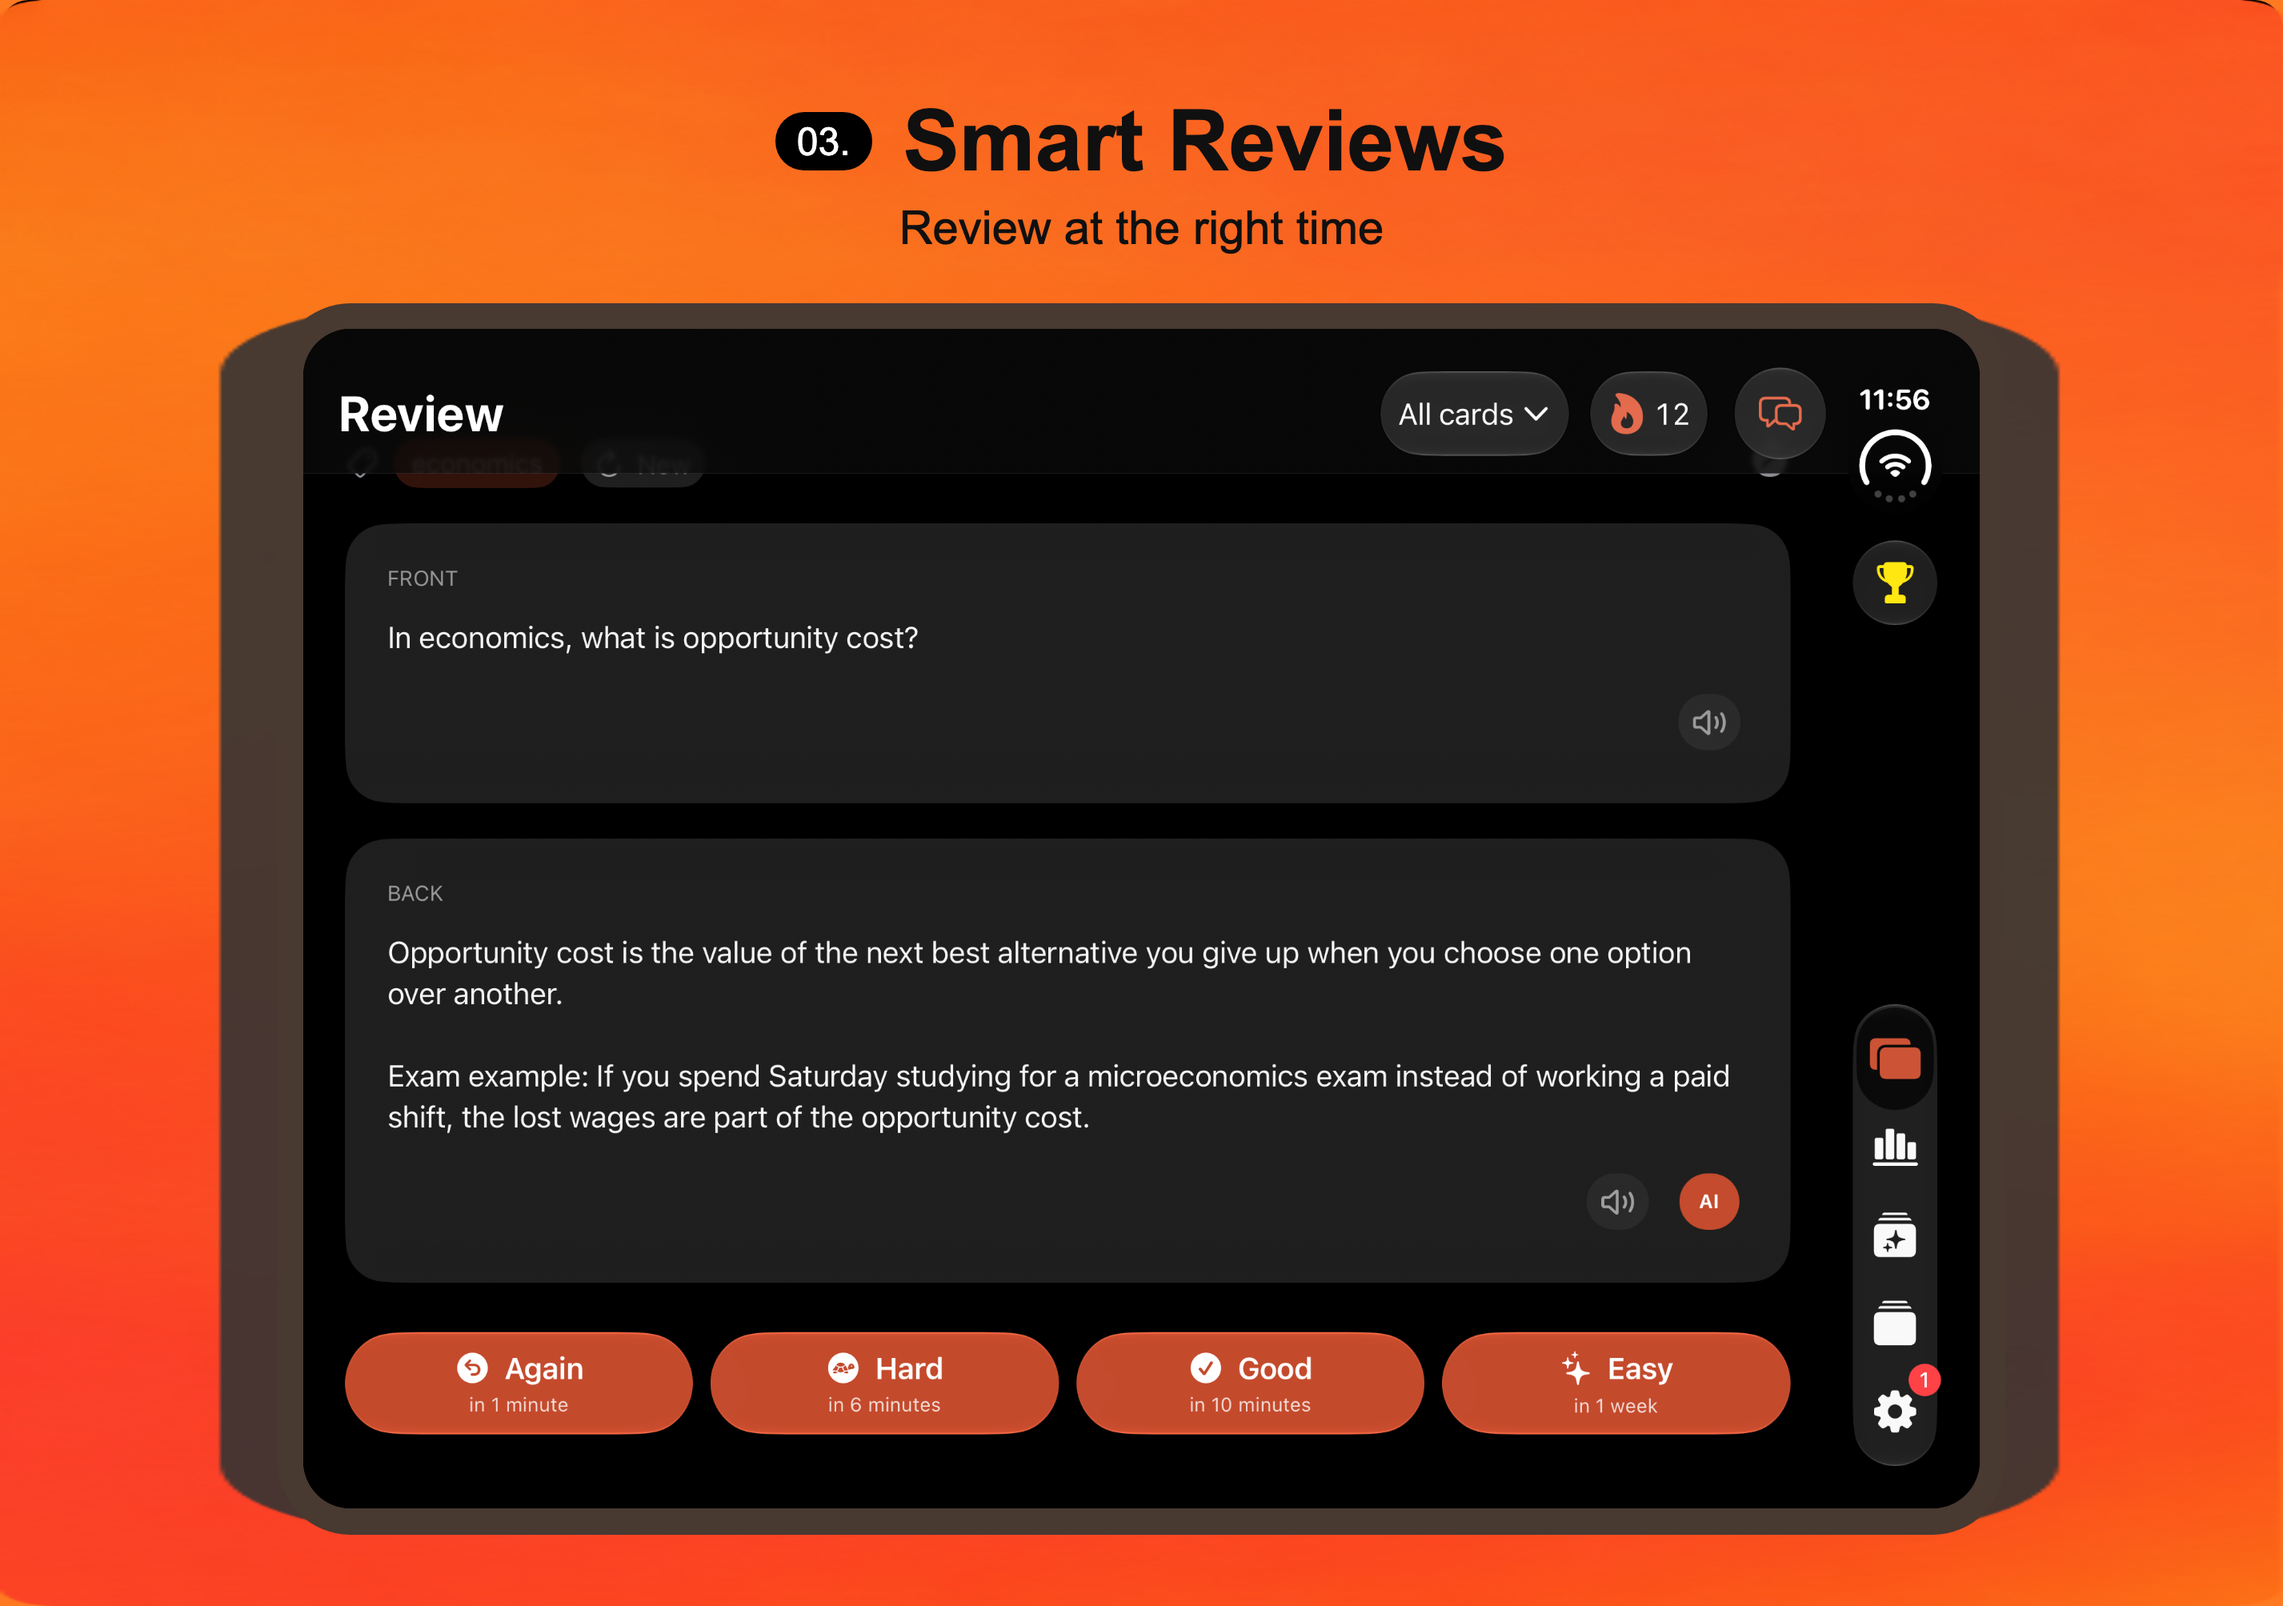
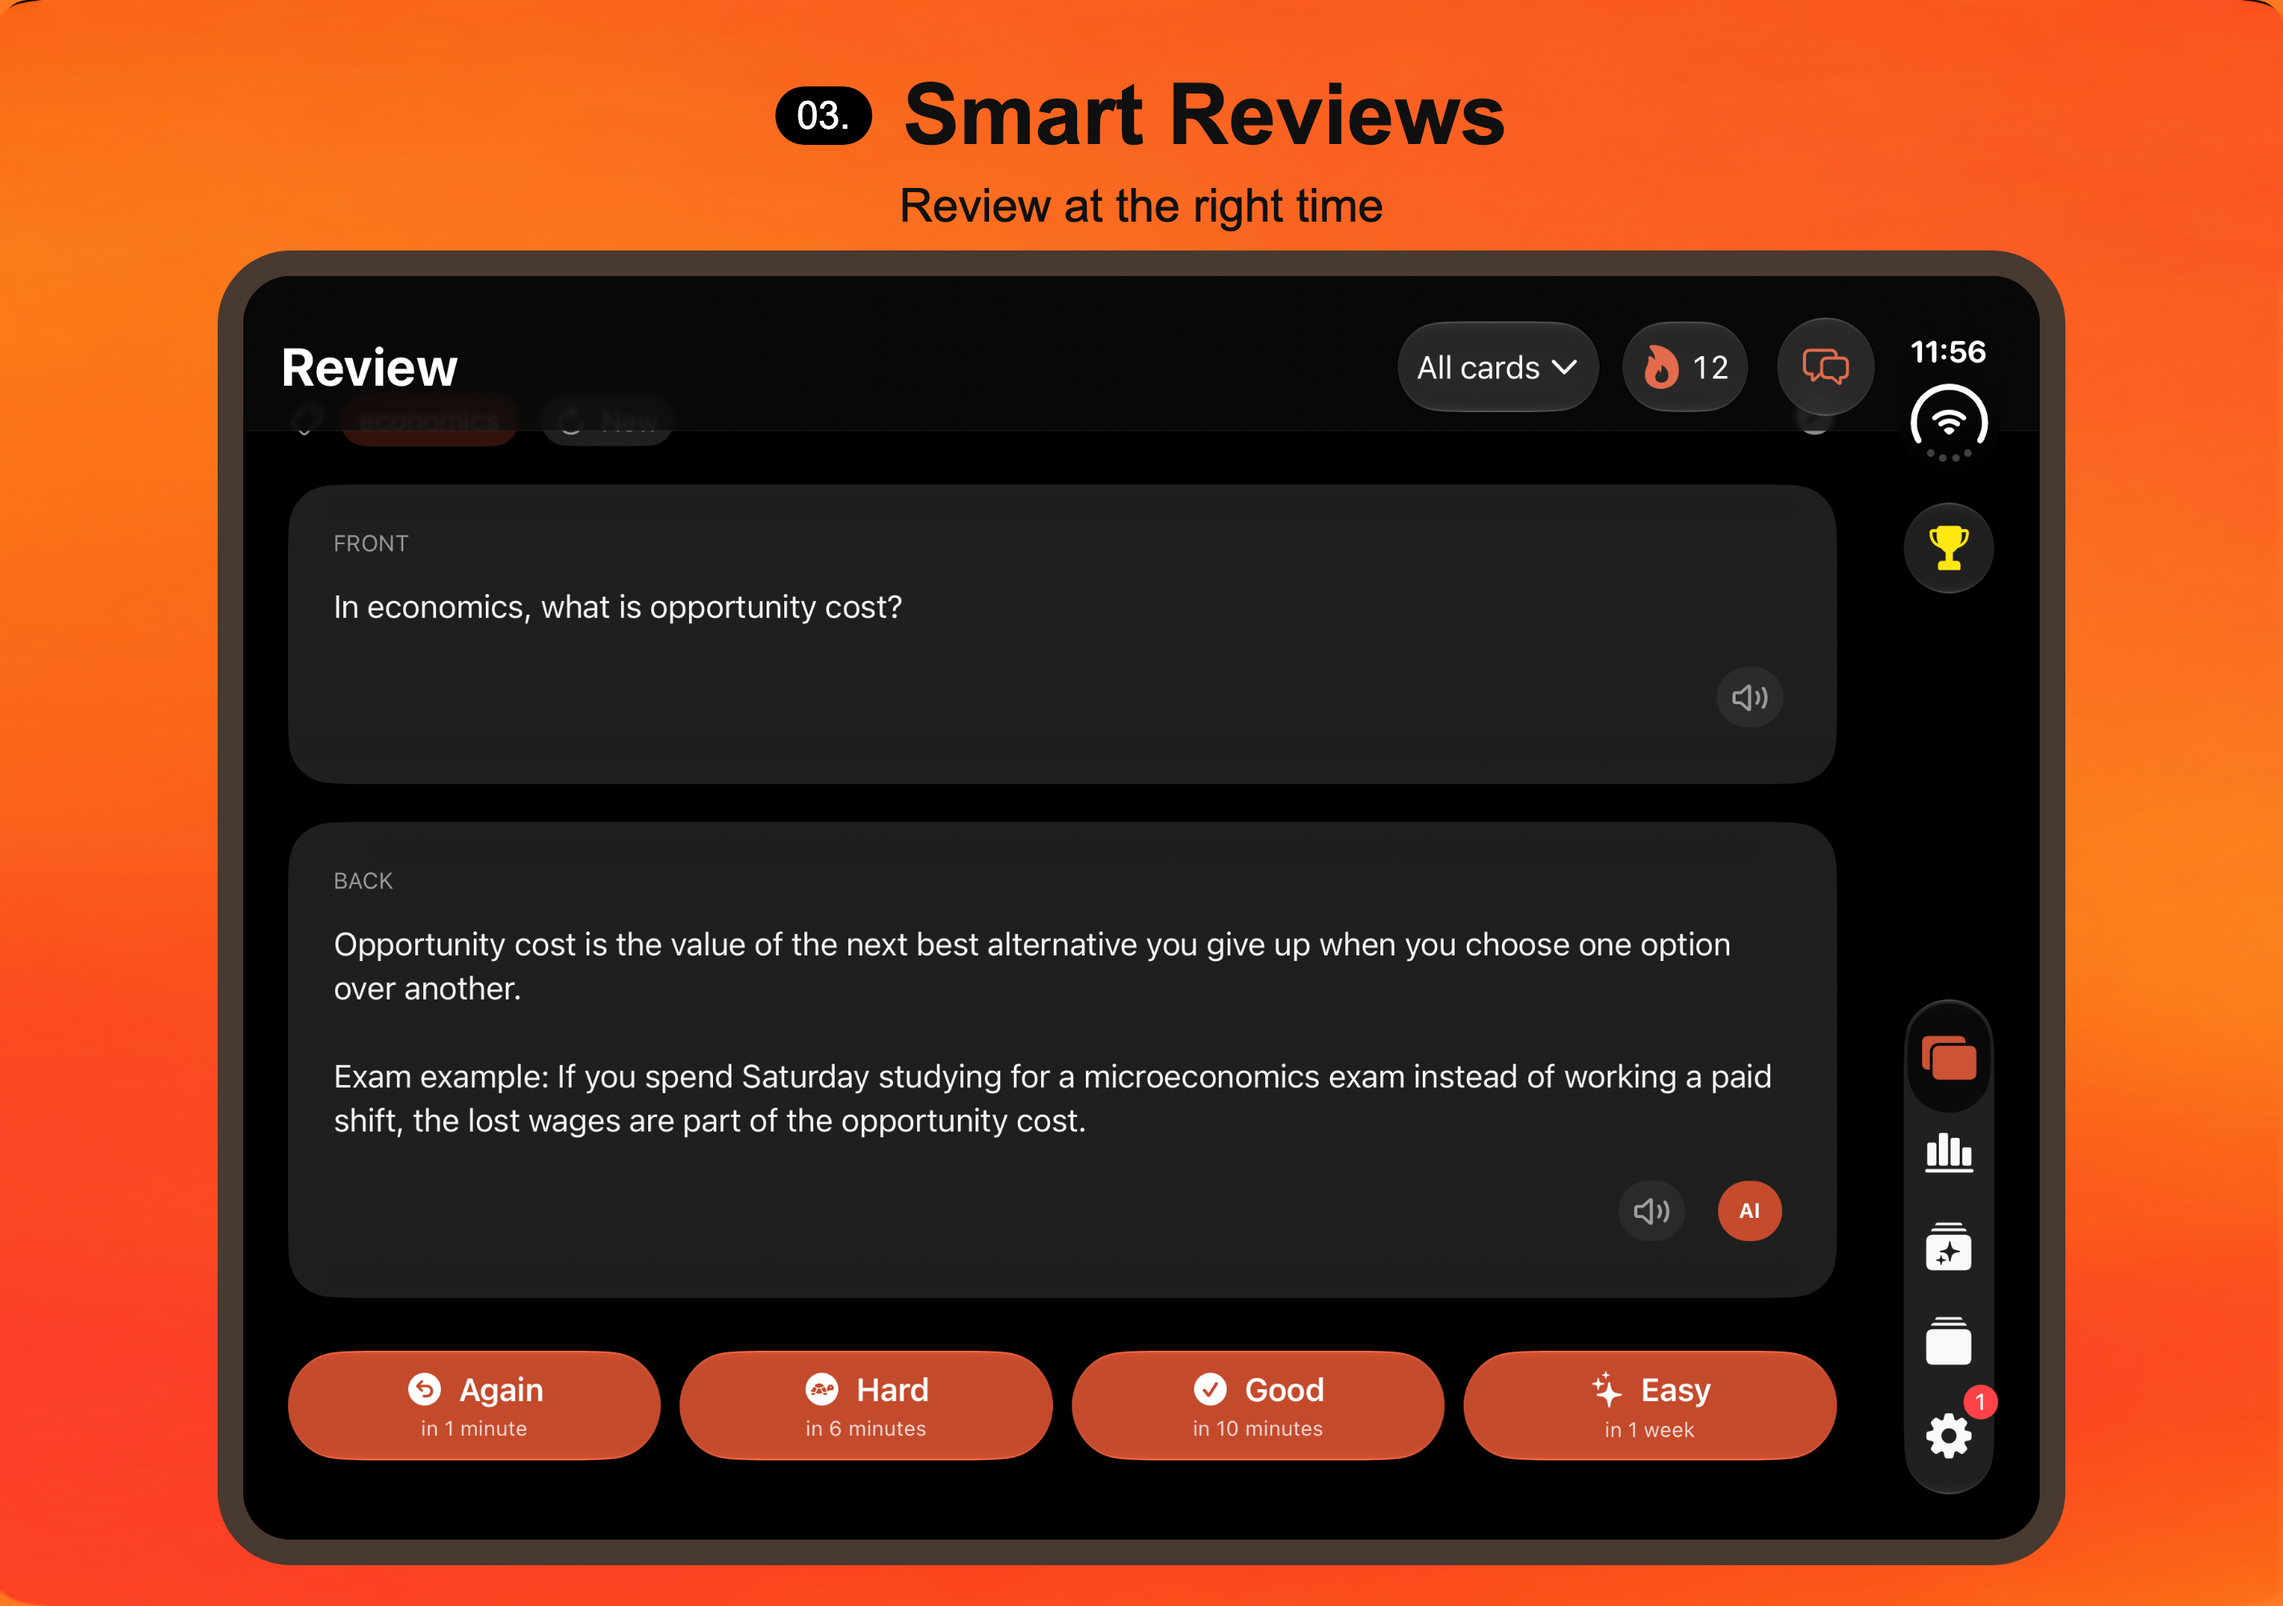
fix: give Duo landscape cards an even rounded frame

Changed region(s): [[0.0936, 0.0309, 0.9047, 0.9885]]

diff --git a/docs/store-screenshot-processing.md b/docs/store-screenshot-processing.md
@@ -108,7 +108,8 @@ base caption is 24 px, weight 400, line height 28 px. The base number capsule is
 50 × 30 px with 20 px text, 15 px radius and a 16 px gap to the heading. The
 format scale multiplies those text measurements uniformly.
 
-iOS keeps the approved reference proportions: heading row top `63 × scale`,
+iOS uses the approved reference proportions for iPhone, iPad, and Duo outer:
+heading row top `63 × scale`,
 caption top `141 × scale`, frame top `212 × scale`, frame height `860 × scale`,
 padding `18 × scale`. The iPad frame is wider to cover the old reference frame,
 with a fixed portrait screen box. Both supported iPad orientations fit completely
@@ -120,8 +121,11 @@ The exact CSS and frame geometry are in `render-ios.mts`.
 Duo cards reuse the five backgrounds, heading and caption styling, card order,
 and localized copy. The outer profile fits its complete portrait native screenshot
 inside a shorter portrait frame. The inner profile uses a landscape canvas and
-a frame matching the native screenshot's aspect ratio, with the complete app UI
-centered below the shared header.
+a frame whose inner box matches the native screenshot's aspect ratio, with the
+complete app UI centered below the shared header. Its frame spans
+`420 × canvas width / 519` to cover the old reference frame, with equal
+`18 × scale` padding on all four sides. The inner heading, caption, and frame
+start at `45 × scale`, `125 × scale`, and `175 × scale` respectively.
 They read only genuine native PNGs from `iphone-duo-outer/` and
 `iphone-duo-inner/` under the iOS screenshot input root and write separate
 `ready/` folders with the same family names. Select one family explicitly with

diff --git a/apps/ios/docs/media/app-store-cards/README.md b/apps/ios/docs/media/app-store-cards/README.md
@@ -10,8 +10,13 @@ links to the manual refresh procedure.
 The current `export-manifest.json` combines 460 retained rows at revision
 `8ad37887e71cb946a6697a9ad657ef0ab61ce6bd`, five Duo outer rows at
 `b615b50fd14fbe5b782469281d9c79869ca73d14`, and five landscape Duo inner
-rows at `25a4d50085f442b72350c9f4a8dd62dbcfa45cbb`. Its top-level revision
-and input root describe the inner processing invocation; retained rows have a null
+rows processed from base HEAD `4fb98ece8127ab446f81b7bfb31a0c70104f2c7b`
+with an uncommitted `render-ios.mts` change. The renderer at production had SHA-256
[1 lines of base64/hex data omitted]
+Git blob `27b1950b28f54f1af78363e453400264c82fe49c`, and binary diff SHA-256
[1 lines of base64/hex data omitted]
+The manifest's top-level revision and input root describe the inner processing
+invocation; retained rows have a null
 input root, while Duo rows record their input root. `source-manifest.json` preserves
 the original 460 native-source Git blobs; [`duo-source-manifest.json`](duo-source-manifest.json)
 records the Duo capture provenance.
